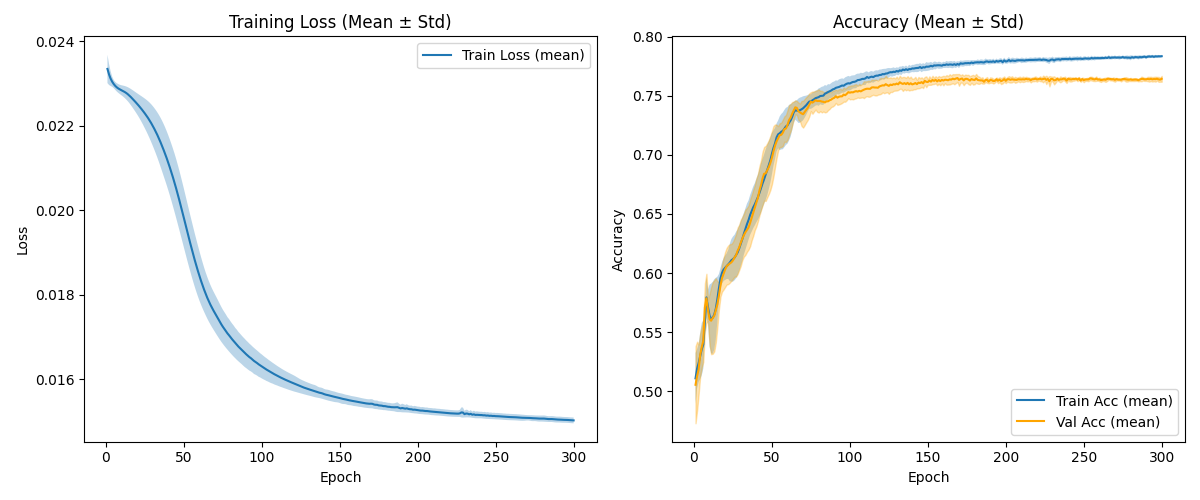
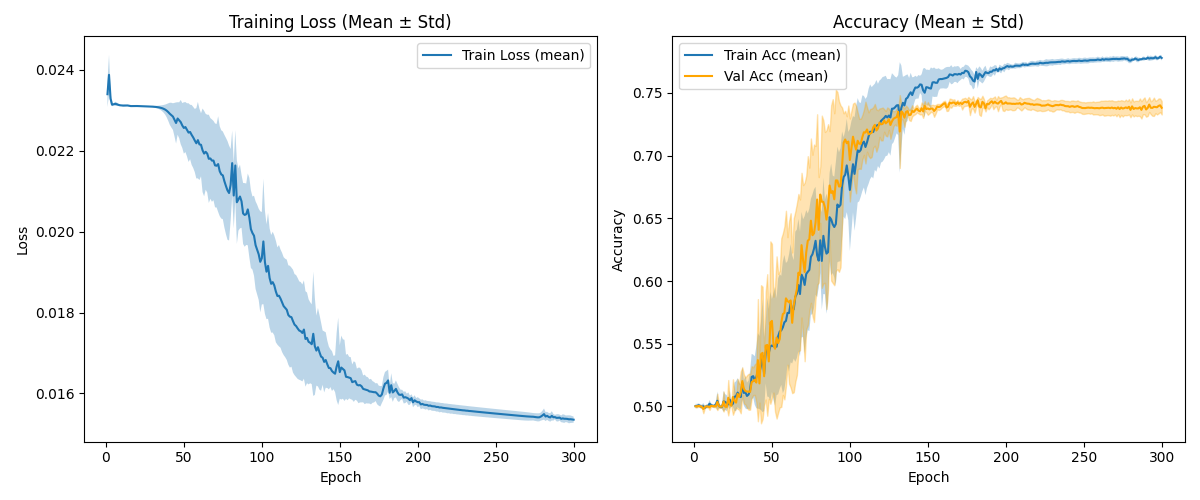
Added feature minmaxscaler

diff --git a/src/train.py b/src/train.py
@@ -1,16 +1,46 @@
 import os
+import numpy as np
 import torch
 import torch.nn as nn
 import torch.optim as optim
-import matplotlib.pyplot as plt
 
 from sklearn.model_selection import train_test_split
 from torch.utils.data import TensorDataset, DataLoader
+from torch.optim.lr_scheduler import StepLR
 from src.models import CommunityEvolutionLSTM
 
 # Device configuration: use GPU if available.
 device = torch.device("cuda" if torch.cuda.is_available() else "cpu")
 print("Using device:", device)
+
+from sklearn.preprocessing import MinMaxScaler
+
+def minmax_scale_features(X, padding_mask_value=0.0):
+
+    X = X.clone()
+    N, T, F = X.shape
+    X_np = X.numpy().reshape(-1, F)
+
+    feature_dim = X.shape[-1]
+    features = X_np[:, :feature_dim//2]
+    mapper_features = X_np[:, feature_dim//2:]
+
+    # Scale original features
+    scaler_features = MinMaxScaler()
+    features_scaled = scaler_features.fit_transform(features)
+
+    # Mask padding in mapper_features
+    valid_mask = (mapper_features != padding_mask_value).any(axis=1)
+
+    scaler_mapper = MinMaxScaler()
+    mapper_features_scaled = mapper_features.copy()
+    mapper_features_scaled[valid_mask] = scaler_mapper.fit_transform(mapper_features[valid_mask])
+
+    # Combine
+    X_scaled_np = np.concatenate([features_scaled, mapper_features_scaled], axis=1)
+    X_scaled = torch.tensor(X_scaled_np.reshape(N, T, F), dtype=torch.float32)
+
+    return X_scaled
 
 def compute_accuracy(model, loader):
     model.eval()
@@ -32,11 +62,12 @@ def compute_accuracy(model, loader):
     return (correct / total) if total > 0 else 0.0
 
 
-def train_model(model, train_loader, val_loader, num_epochs, learning_rate, run, experiment_name):
+def train_model(model, train_loader, val_loader, num_epochs, learning_rate, run):
 
     # Make sure model expects masks if you want to use them in forward later
     criterion = nn.CrossEntropyLoss(ignore_index=-1)
     optimizer = optim.Adam(model.parameters(), lr=learning_rate, weight_decay=1e-5)
+    scheduler = StepLR(optimizer, step_size=100, gamma=0.5)
 
     train_loss_history = []
     train_acc_history = []
@@ -75,6 +106,7 @@ def train_model(model, train_loader, val_loader, num_epochs, learning_rate, run,
         val_acc = compute_accuracy(model, val_loader)
         train_acc_history.append(train_acc)
         val_acc_history.append(val_acc)
+        scheduler.step()
 
         if (epoch + 1) % 50 == 0:
             print(f"Epoch {epoch+1}/{num_epochs}, Loss: {epoch_loss:.4f}, "
@@ -85,7 +117,7 @@ def train_model(model, train_loader, val_loader, num_epochs, learning_rate, run,
     return train_loss_history, train_acc_history, val_acc_history
 
 
-def train(X, t, run, experiment_name):
+def train(X, t, run, config):
 
     # Split dataset into 80-10-10
     train_X, temp_X, train_t, temp_t = train_test_split(
@@ -94,6 +126,9 @@ def train(X, t, run, experiment_name):
     val_X, test_X, val_t, test_t = train_test_split(
         temp_X, temp_t, test_size=0.5, random_state=42
     )
+
+    if config["features"]["minmax_scaler"]:
+        train_X, val_X, test_X = minmax_scale_features(train_X), minmax_scale_features(val_X), minmax_scale_features(test_X),
 
     train_dataset = TensorDataset(train_X, train_t)
     val_dataset = TensorDataset(val_X, val_t)
@@ -107,16 +142,15 @@ def train(X, t, run, experiment_name):
     # Hyperparameters.
     input_dim = X.shape[-1]
     hidden_dim = 16
-    num_layers = 2
+    num_layers = 3
     num_epochs = 300
-    learning_rate = 1e-3
     num_classes = 2
 
     model = CommunityEvolutionLSTM(input_dim, hidden_dim, num_layers, num_classes).to(device)
-    train_losses, train_accs, val_accs = train_model(model, train_loader, val_loader, num_epochs, learning_rate, run, experiment_name)
+
+    hyperparams = config["hyperparams"]
+    train_losses, train_accs, val_accs = train_model(model, train_loader, val_loader, num_epochs, hyperparams["lr"], run)
 
     return train_losses, train_accs, val_accs, compute_accuracy(model, test_loader)
-
-
 
 

diff --git a/src/run.py b/src/run.py
@@ -8,6 +8,7 @@ from src.trajectories import get_trajectories
 from src.features import get_rnn_data_padded
 from src.train import train
 from src.plot import plot_training_summary
+from src.utils import set_seed
 
 def run_experiments(config):
 
@@ -17,6 +18,7 @@ def run_experiments(config):
     
     train_stats, test_accs = [], []
     for run in range(1, config["num_runs"] + 1):
+        # set_seed(run)
         if run >= 2:
             config["features"]["load_save"] = True
         node_to_community = cluster(G, method=config["clustering"])
@@ -27,7 +29,7 @@ def run_experiments(config):
         else:
             sequences, labels = get_rnn_data_padded(trajectories, graphs_per_snapshot, save=config["features"])
             
-        train_losses, train_accs, val_accs, test_acc = train(sequences, labels, run, config["experiment_name"])
+        train_losses, train_accs, val_accs, test_acc = train(sequences, labels, run, config)
         test_accs.append(test_acc)
         train_stats.append(np.stack([train_losses, train_accs, val_accs]))
 

diff --git a/src/utils.py b/src/utils.py
@@ -1,0 +1,12 @@
+import random
+import numpy as np
+import torch
+
+def set_seed(seed: int = 42):
+    random.seed(seed)
+    np.random.seed(seed)
+    torch.manual_seed(seed)
+    torch.cuda.manual_seed(seed)
+    torch.cuda.manual_seed_all(seed)
+    torch.backends.cudnn.deterministic = True
+    torch.backends.cudnn.benchmark = False

diff --git a/src/models.py b/src/models.py
@@ -1,3 +1,4 @@
+import torch
 import torch.nn as nn
 
 class CommunityEvolutionLSTM(nn.Module):
